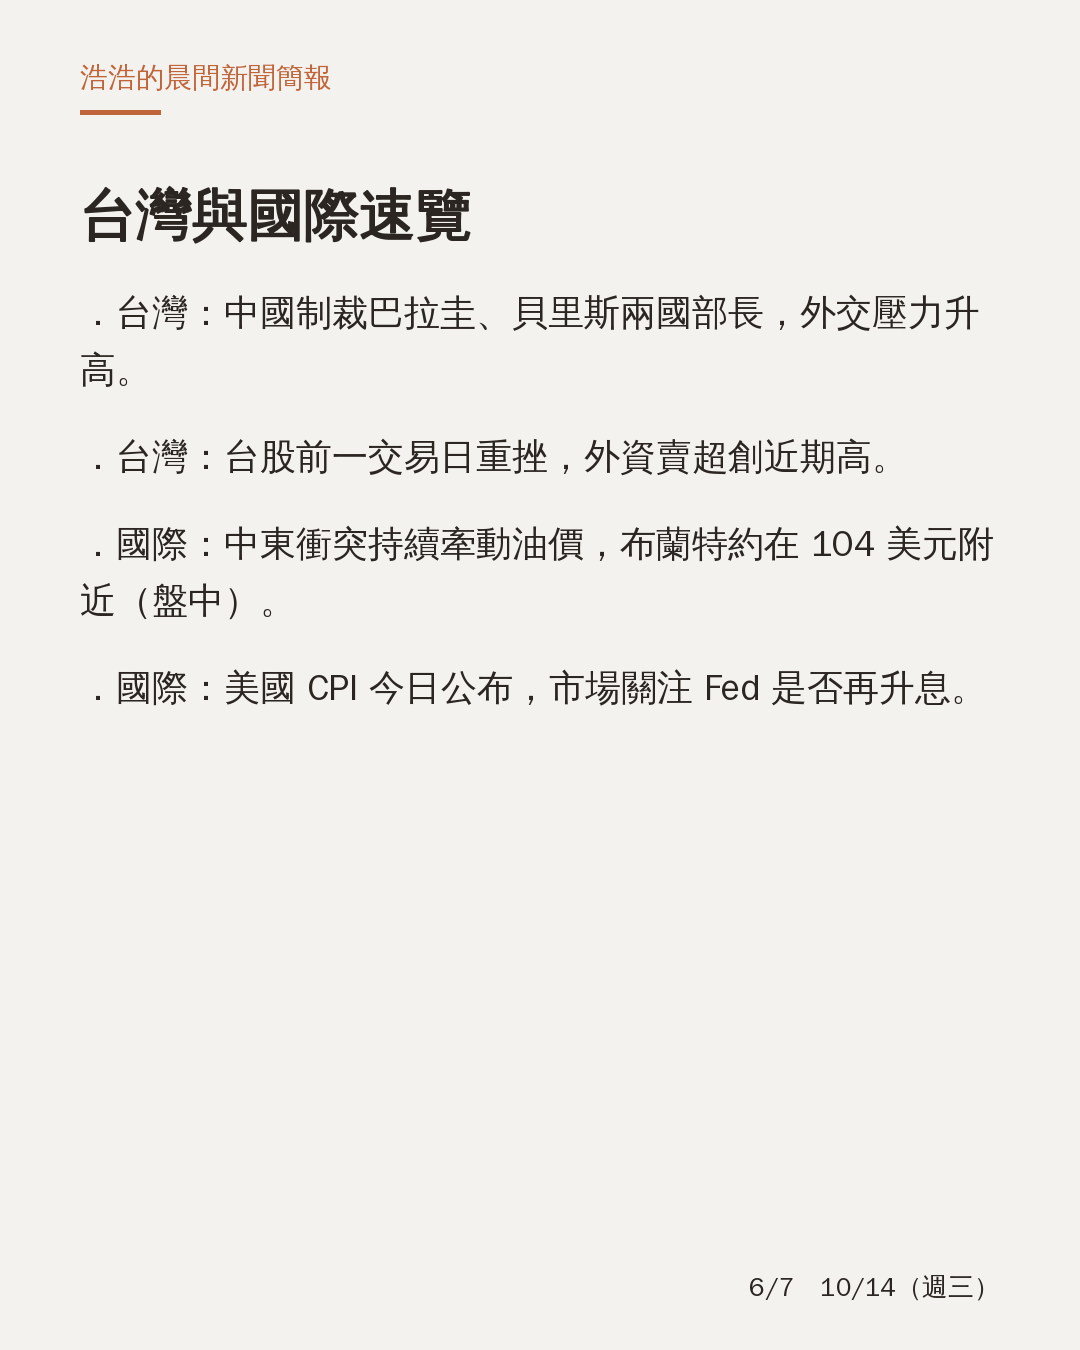
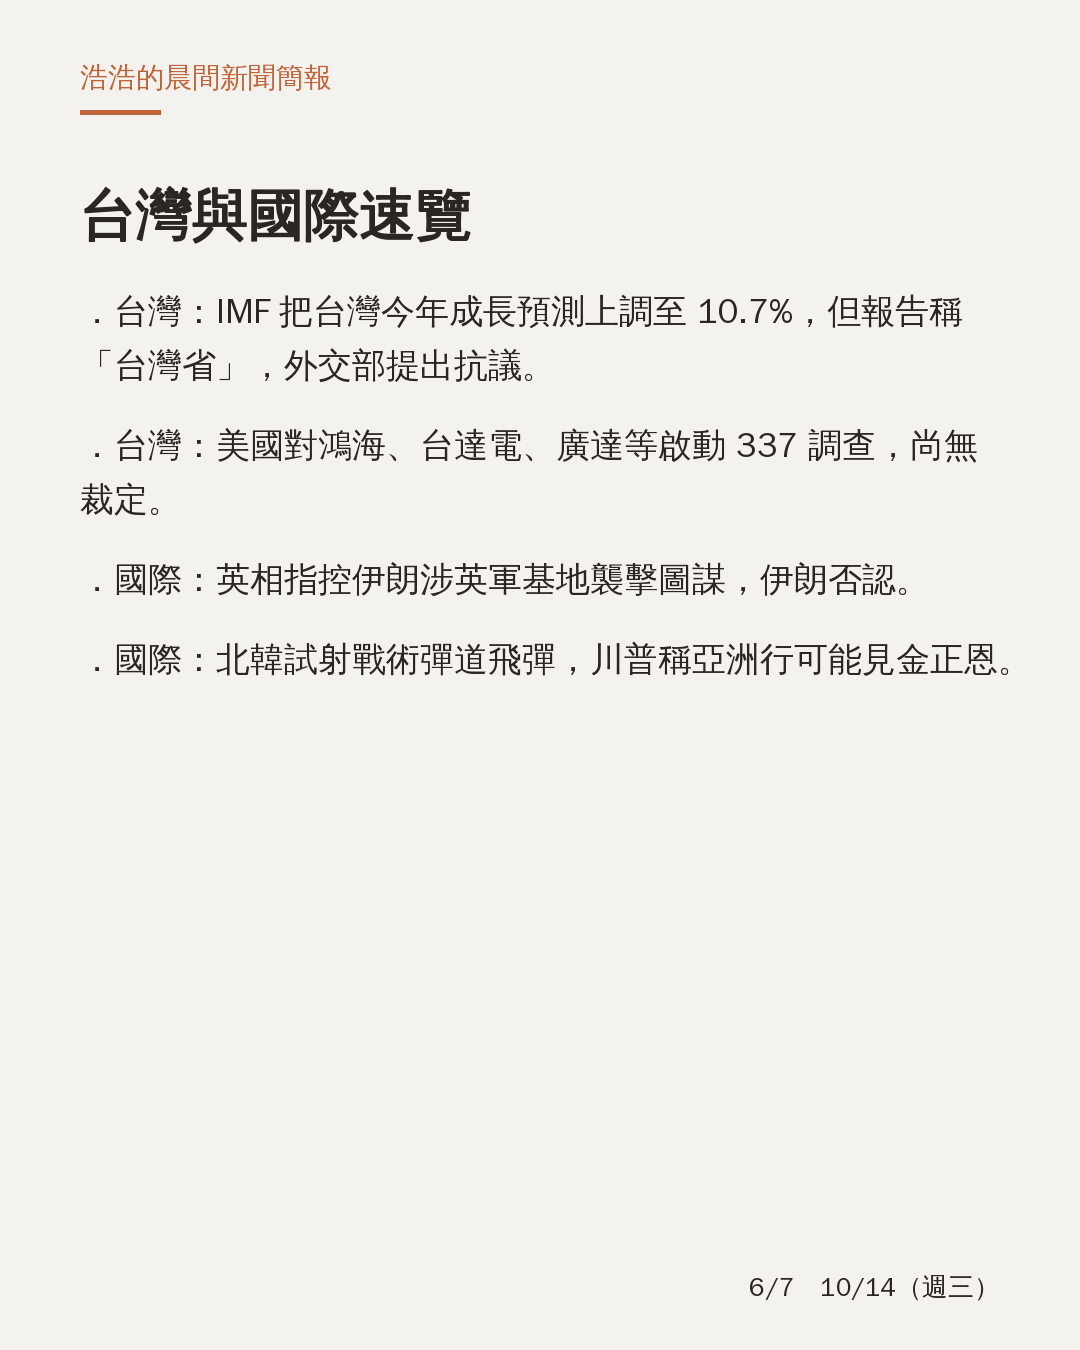
cards: 2026-10-14 晨間新聞簡報圖卡（改以已發佈簡報內容重製）
Claude-Session: https://claude.ai/code/session_01JDEc1Nb7rctPJd4n1WxCRd

Changed region(s): [[0.0611, 0.3111, 0.9167, 0.5289], [0.0611, 0.2178, 0.9167, 0.28]]

diff --git a/cards/2026-10-14/index.md b/cards/2026-10-14/index.md
@@ -1,8 +1,8 @@
 # 晨間新聞簡報｜2026年10月14日（週三）
 
-1. 台股 10/13 重挫 960 點，外資大舉賣超
-2. 通膨數據週登場，美債殖利率逾 5%
-3. 中國制裁兩友邦部長，台灣外交承壓
+1. 外資狂賣，台股重挫近千點
+2. 利雅德機場遇襲，油價居高不下
+3. 俄烏能源停火遭質疑，歐盟祭制裁
 
 ![](01-cover.png)
 ![](02-focus1.png)
